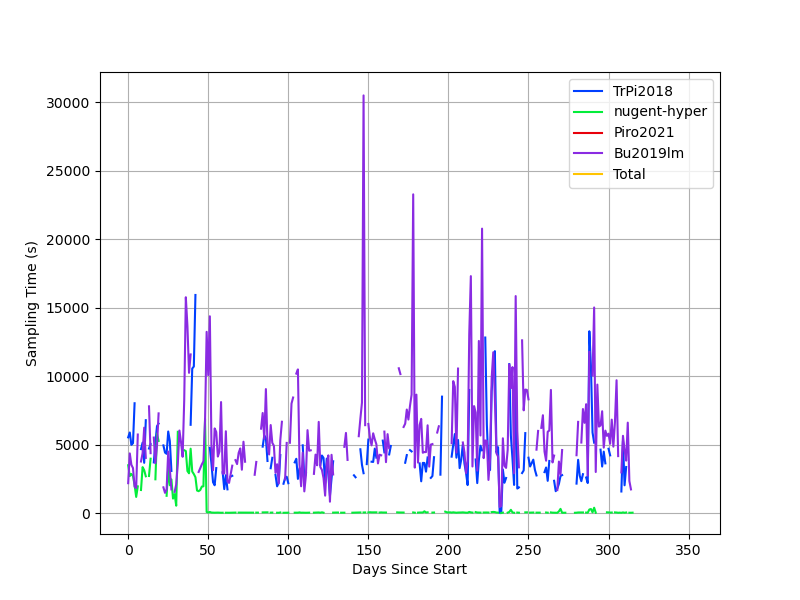
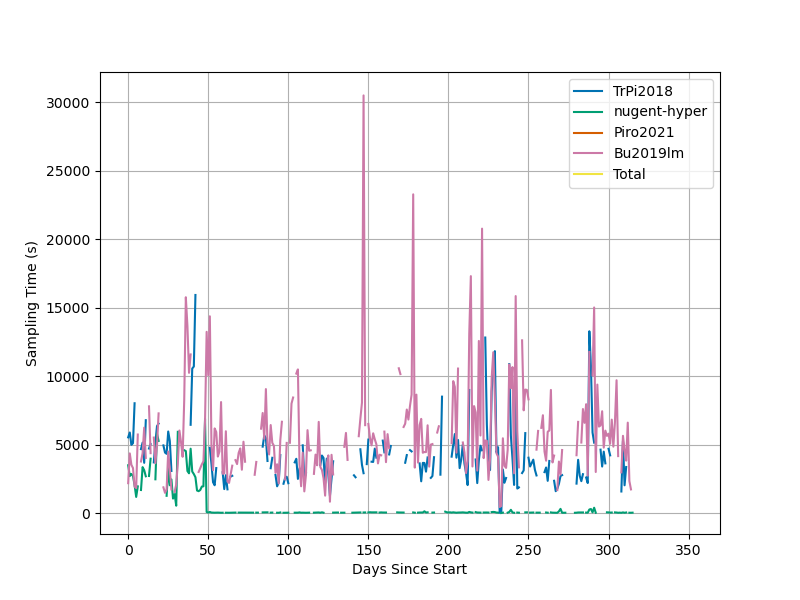
switched to colorblind style

diff --git a/stats.py b/stats.py
@@ -27,7 +27,7 @@ from astropy.time import Time
 #from scipy.interpolate import make_interp_spline as spline
 
 ## set plot style
-plt.style.use('seaborn-bright')
+plt.style.use("seaborn-colorblind")
 mpl.rcParams.update({"axes.grid" : True})
 plt.style.context(("seaborn-colorblind",))
 
@@ -43,7 +43,7 @@ args = parser.parse_args()
 
 ## to change to correct directory
 os.chdir(sys.path[0])
-print("Current working directory: {0}\n".format(os.getcwd())) if args.verbose else None
+print("Current working directory: {}\n".format(os.getcwd())) if args.verbose else None
 
 ## compilation of lists for use in plotting (pre-dataframe implementation)
 ## post dataframe implementation: these should eventually be removed and plots should be updated to use the dataframe
@@ -604,6 +604,7 @@ def plotUnfit(df, models= args.models, save=True): ## assumes use of dataframe
     plt.xticks(rotation=15)
     ax.legend()
     plt.savefig(plotDir("fracDailyUnfitRolling")) if save else None
+    plt.clf()
 
     '''
     ## this seems to be busted in some way 
@@ -667,8 +668,8 @@ def plotSamplingTimes(df, models=args.models, save=True):
         except:
             fitTime[model] = np.tile(np.array([np.nan],dtype='float64'),(len(dayList),))
             fitTime[model] = fitTime[model].reshape(len(dayList),) ## flatten the array
-        print('model {0} fit times: {1}\n'.format((model, fitTime[model]))) if args.verbose else None
-        print('model {0} fit times shape: {1}\n'.format((model, fitTime[model].shape))) if args.verbose else None
+        print('model {} fit times: {}\n'.format(model, fitTime[model])) if args.verbose else None
+        print('model {} fit times shape: {}\n'.format(model, fitTime[model].shape)) if args.verbose else None
     
     fitTime['Total'] = np.array([np.concatenate([value[idx].flatten() for key, value in fitTime.items() if key != 'Total']) for idx in range(len(dayList))])
     print ('total fit time: {}\n'.format(fitTime['Total'])) if args.verbose else None
@@ -713,12 +714,32 @@ def plotSamplingTimes(df, models=args.models, save=True):
     for key, value in fitTime.items(): ## this has issue of the value being an array of arrays (e.g each day will have an array of fit times). Wasn't an issue in plotUnfit() because each day had a single value 
         ## should pull this out maybe so it doesn't look as comnplicated
         fitTimeValue = np.concatenate(fitTime[key],axis=None).ravel() 
-        sns.histplot(fitTimeValue, label=key,ax=ax, alpha=0.5, kde=True)  if key != 'Total' else None ## could fine tune the number of bins
+        sns.histplot(fitTimeValue, kde=True,
+                     label=key,ax=ax, alpha=0.4)  if key != 'Total' else None ## could fine tune the number of bins
+    for line in ax.lines:
+        line.set_color('black')      
     ax.set_xlabel("Sampling Times (s)")
     ax.set_ylabel('Count')
     #ax.set_title('Sampling Times for Each Model') ## should these have titles?
     ax.legend()
     plt.savefig(plotDir("fitTimeHistModel")) if save else None
+    plt.clf()
+    
+    ## plot a histogram with stacked bars for each model
+    #fitTimePrime = {key:value for key, value in fitTime.items() if key != 'Total'} ## remove the total fit time for fitTimePrime
+    fitTimePrime = np.array([value.ravel() for key, value in fitTime.items() if key != 'Total'])
+    print('shape of fitTimePrime: {}'.format(fitTimePrime.shape)) if args.verbose else None
+    fitTime_df = pd.DataFrame(fitTimePrime, columns=models) ## create a dataframe for the fit times
+    print('fitTime_df: {}'.format(fitTime_df)) if args.verbose else None
+    fig, ax = plt.subplots(figsize=(8,6), facecolor='white')
+    sns.histplot(data=fitTime_df, x='time', hue='model',
+                 multiple='stack',
+                 ax=ax, alpha=1, legend=True)
+    ax.set_xlabel("Sampling Times (s)")
+    ax.set_ylabel('Count')
+    #ax.set_title('Sampling Times for Each Model') ## should these have titles?
+    ax.legend()
+    plt.savefig(plotDir("fitTimeHistModelStacked")) if save else None
     plt.clf()
 
     ## plot histogram of total daily fit time
@@ -800,11 +821,11 @@ df = get_dataframe(candDir=args.candDir, models=args.models, save=False, file=ar
 # plotCands(df=df,save=True)
 # print('completed daily candidate plots (1)\n') if args.verbose else None
 
-plotFits(df=df)
-print('completed cumulative fit plot (2)\n') if args.verbose else None
+# plotFits(df=df)
+# print('completed cumulative fit plot (2)\n') if args.verbose else None
 
 # plotUnfit(df=df)
 # print('completed unfit candidate plot (3)\n') if args.verbose else None
 
-# plotSamplingTimes(df=df)
-# print('completed sampling time plot (4)\n') if args.verbose else None
+plotSamplingTimes(df=df)
+print('completed sampling time plot (4)\n') if args.verbose else None
